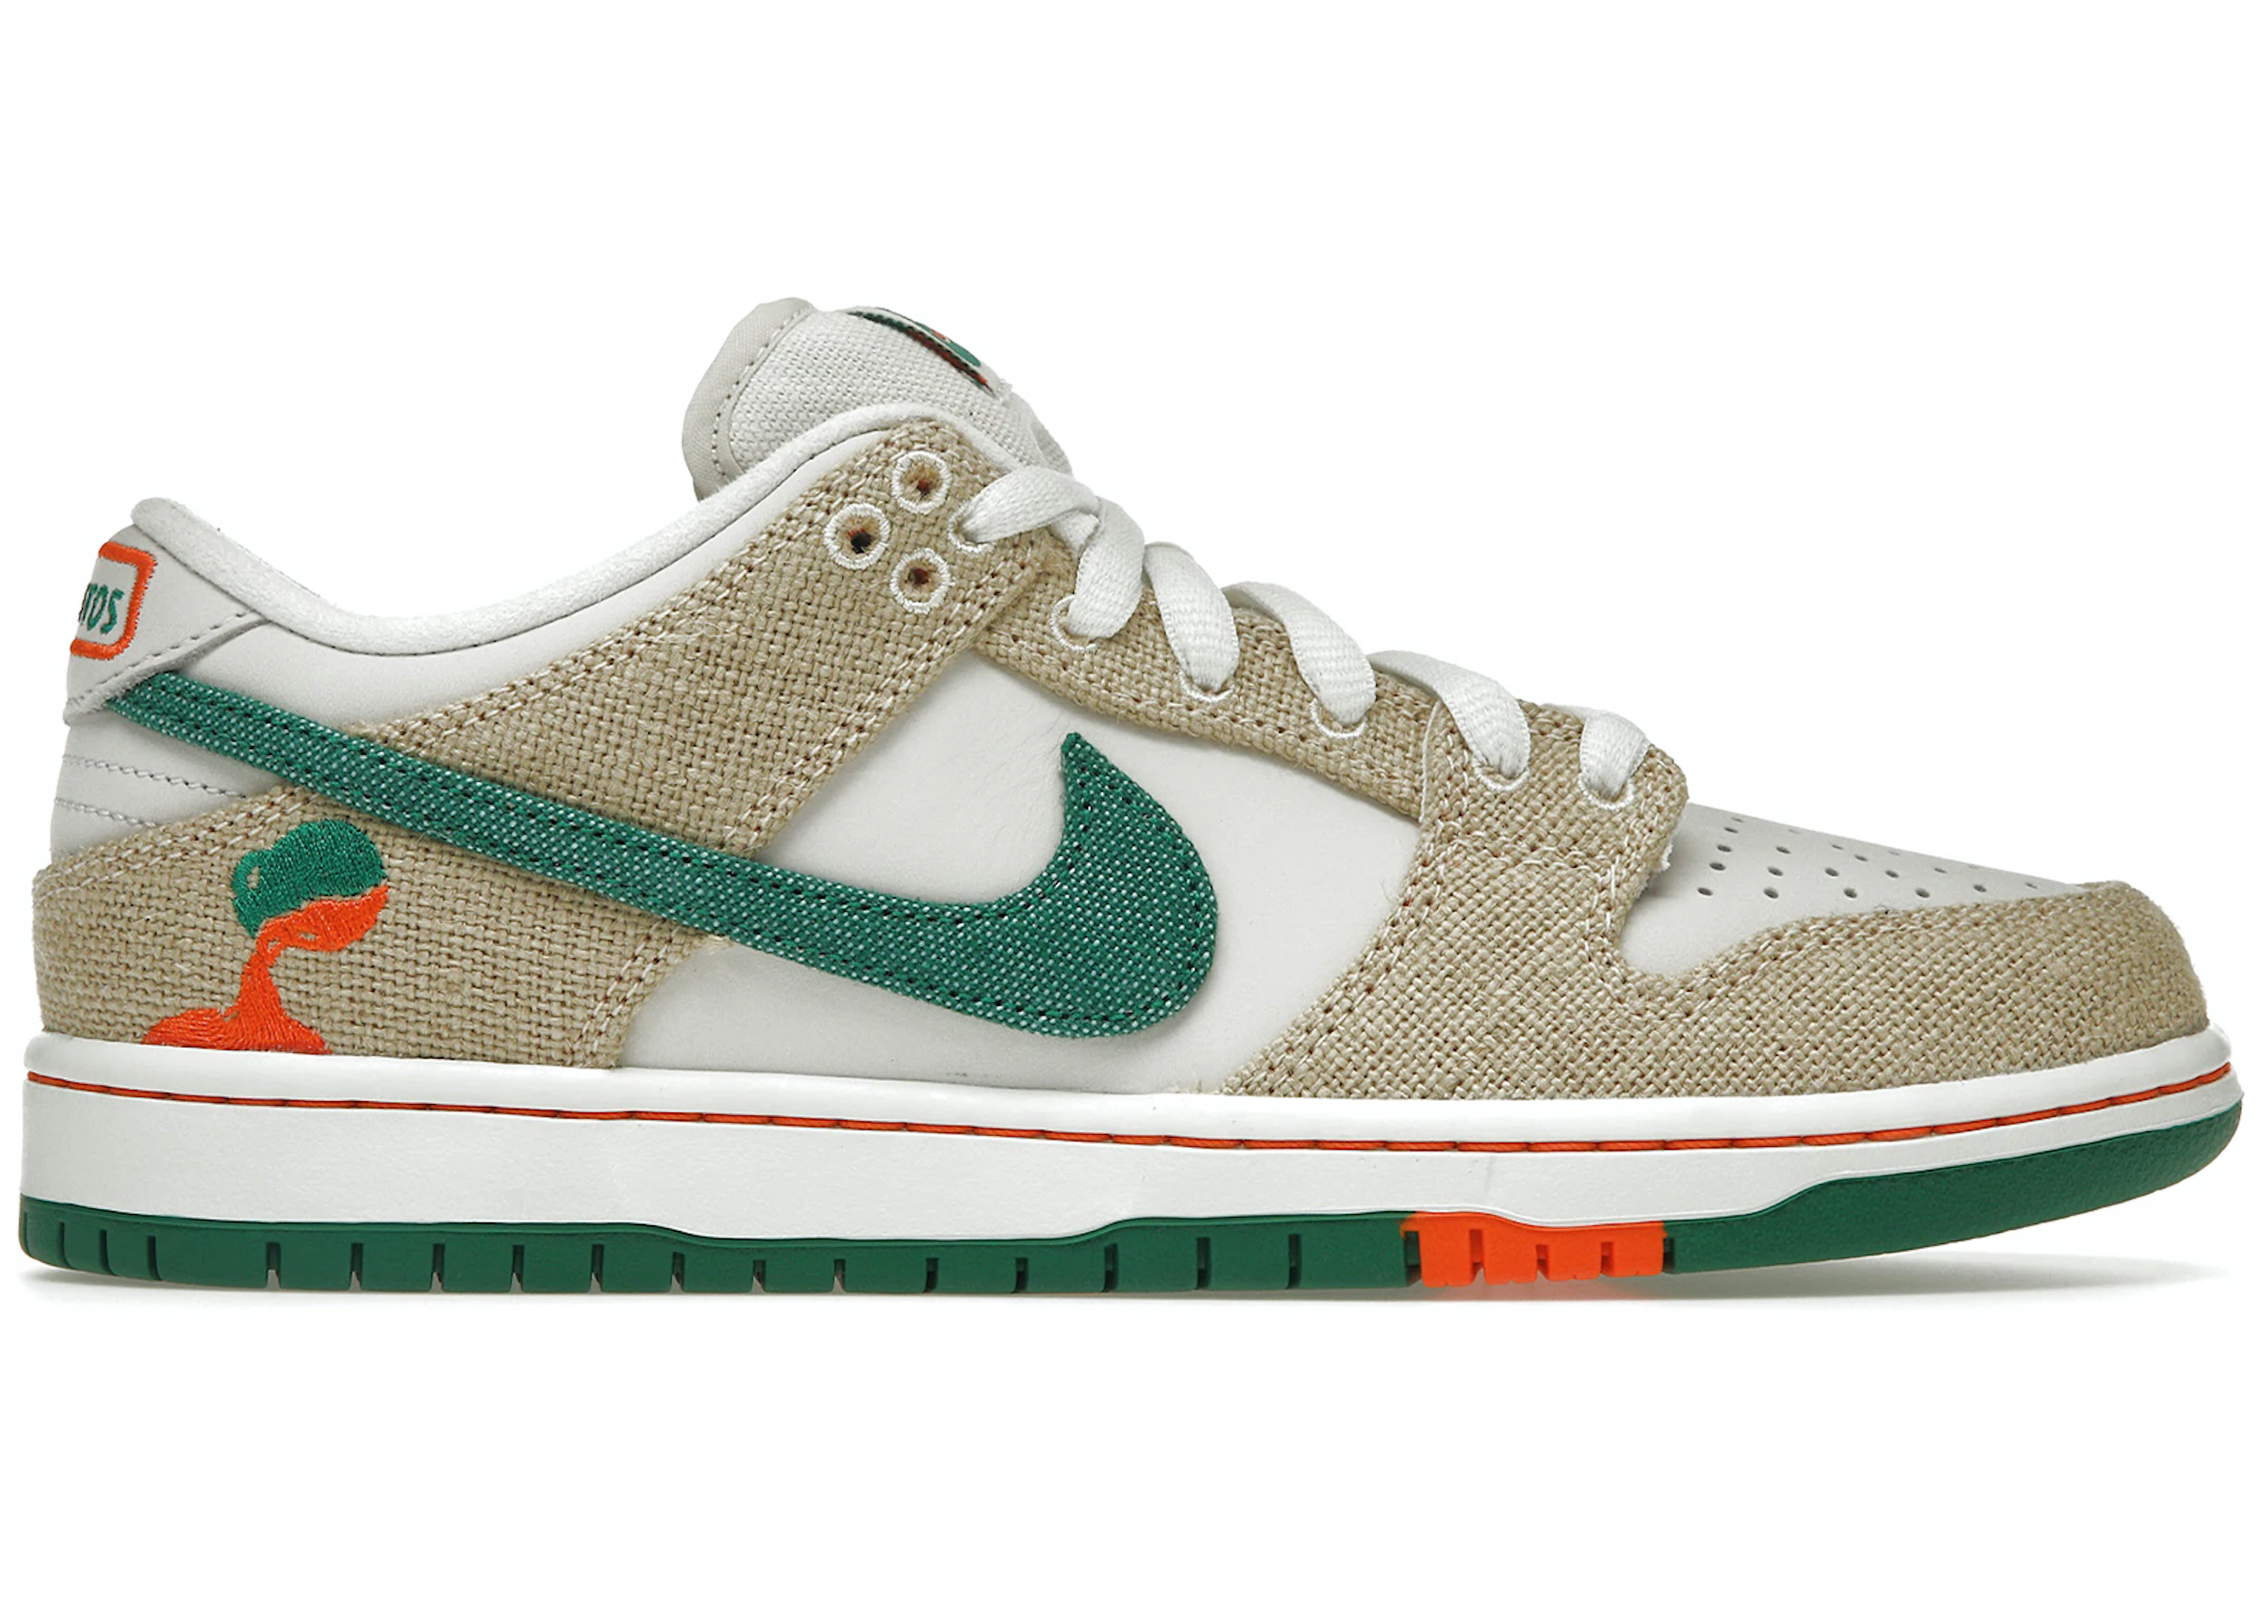
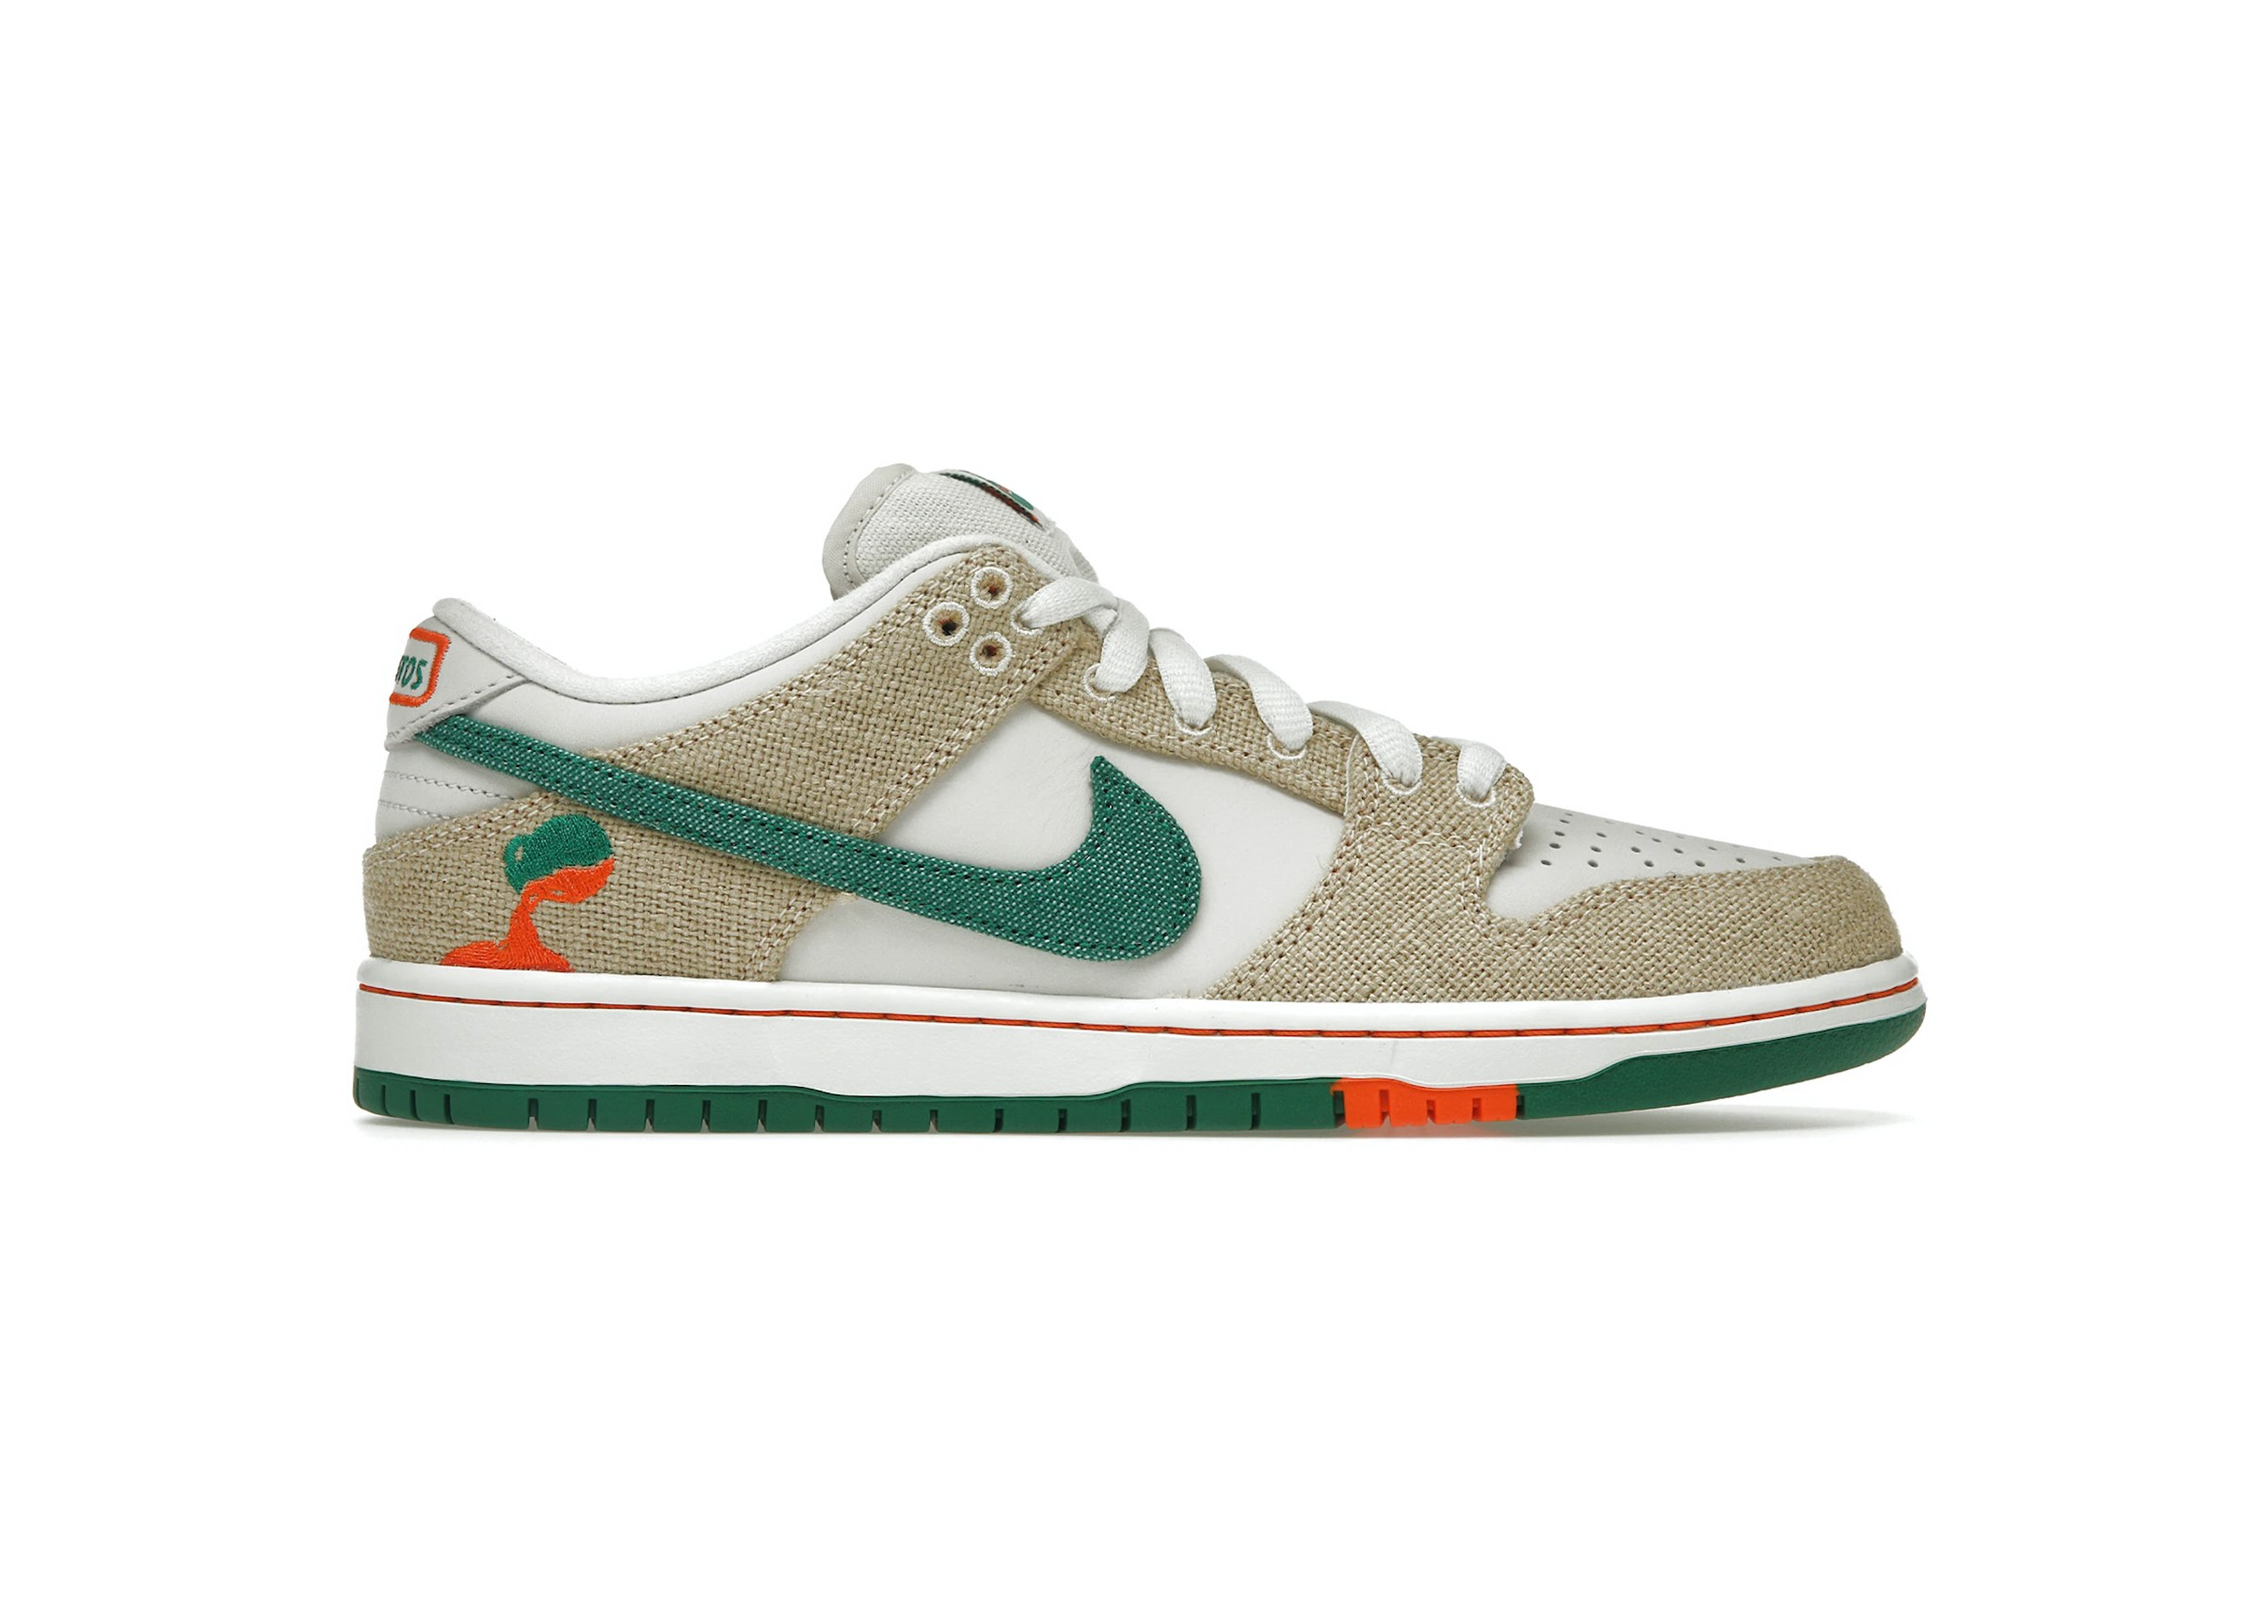
category page

diff --git a/src/components/Navbar.jsx b/src/components/Navbar.jsx
@@ -51,12 +51,15 @@ function Navbar() {
                             <button className='searchbar-btn'><CiSearch size={25} color='white' /></button>
                         </form>                   
                     </div>
+                    
                 ):null }
-                <div className='inline-sep icon-container'>
-                    <Link to={'/connexion'}><BiUser size={32} stroke-width='0.1' className='navbar-icons icon-user' style={styles.itemscolor} /></Link>
-                    <AiOutlineHeart size={32} stroke-width='0.1' className='navbar-icons icon-fav' style={styles.itemscolor} />
-                    <AiOutlineShoppingCart onClick={ShowCart} size={32} stroke-width='0.1' className='navbar-icons icon-cart' style={styles.itemscolor} />
-                </div>
+                { location.pathname !== '/register' && location.pathname !== '/login' && location.pathname !== '/connexion' ? (
+                    <div className='inline-sep icon-container'>
+                        <Link to={'/connexion'}><BiUser size={32} stroke-width='0.1' className='navbar-icons icon-user' style={styles.itemscolor} /></Link>
+                        <AiOutlineHeart size={32} stroke-width='0.1' className='navbar-icons icon-fav' style={styles.itemscolor} />
+                        <AiOutlineShoppingCart onClick={ShowCart} size={32} stroke-width='0.1' className='navbar-icons icon-cart' style={styles.itemscolor} />
+                    </div>
+                ):null }
             </div>
             { showCart === true ? (
                 <div className='cart-popup'>

diff --git a/src/pages/Category.jsx b/src/pages/Category.jsx
@@ -1,0 +1,31 @@
+/* eslint-disable capitalized-comments */
+/* eslint-disable no-unused-vars */
+/* eslint-disable indent */
+import {React} from 'react';
+import '../css/Homepage.scss';
+import Navbar from '../components/Navbar';
+import ProductCard from '../components/cards/ProductCard';
+import dunk from '../img/nike/dunk.jpg';
+import Nike from '../img/nike/air-max.jpg'
+import dunkJarritos from '../img/nike/dunk_jarritos.jpg'
+
+function Category() {
+    return (
+        <div>
+            <Navbar />
+            <div className='main-div'>
+                <h1 className='text1'>Sneakers</h1>
+                <h2 className='text2'>Top catégorie</h2>
+                <div className='card-grid-container'>
+                    <div className='inline flex-center'>
+                        <div className='card-grid-2x2'>
+                        <ProductCard item_name='Nike SB Dunk Low Jarritos' item_price='de 275€ à 432€' item_image={dunkJarritos} item_sizes='US6 - US13' />          
+                        </div>
+                    </div>
+                </div>
+            </div>
+        </div>
+    );
+}
+
+export default Category;

diff --git a/src/components/cards/ProductCard.jsx b/src/components/cards/ProductCard.jsx
@@ -6,14 +6,14 @@ const ProductCard = (props) => {
     console.log(item_sizes);
 
     return (
-        <div className='product-card'>
-            <div className='card-img'>
-                {item_image && <img src={item_image} alt='product-image' />}
+        <div className='card product-card'>
+            <div className='product-card-img'>
+                {item_image && <img src={item_image} alt='product-image' className='product-card-image' />}
             </div>
-            <div>
-                <p>{item_name}</p>
-                <p>tailles : {item_sizes}</p>
-                <p>{item_price}€</p>
+            <div className='product-card-txt'>
+                <p className='product-card-name'>{item_name}</p>
+                <p className='product-card-sizes'>tailles : {item_sizes}</p>
+                <p className='item-price'>{item_price}</p>
             </div>         
         </div>
     )

diff --git a/src/App.jsx b/src/App.jsx
@@ -6,6 +6,7 @@ import LoginRegister from './pages/LoginRegister.jsx';
 import Login from './pages/subpages/Login.jsx';
 import Register from './pages/subpages/Register.jsx';
 import ProductPage from './pages/ProductPage.jsx';
+import Category from './pages/Category.jsx';
 
 function App() {
   return (
@@ -16,6 +17,7 @@ function App() {
           <Route path='/login' element={<Login />}/>
           <Route path='/register' element={<Register />}/>
           <Route path='/product' element={<ProductPage />}/>
+          <Route path='/category' element={<Category />}/>
         </Routes>
       </Router>
   );

diff --git a/src/css/Card.scss b/src/css/Card.scss
@@ -6,9 +6,14 @@
 }
 
 .product-card {
-    height: 20vh;
-    width: 20%;
-    text-align: center;
+    font-family: Arial, Helvetica, sans-serif;
+    height: 35vh;
+    width: 20vw;
+}
+
+.product-card-img {
+    height: 24vh;
+    width: 100%;
 }
 
 .category-card {
@@ -69,4 +74,19 @@
 .card-see-all-img {
     width: 100%;
     height: 517px;
+}
+
+.product-card-image {
+    height: 100%;
+    width: 100%;
+}
+
+.product-card-sizes {
+    font-weight: 300;
+    color: grey;
+    font-size: 15px;
+}
+
+.product-card-txt {
+    margin: 25px;
 }

diff --git a/src/css/Navbar.scss b/src/css/Navbar.scss
@@ -94,6 +94,7 @@
     border-radius: 30px;
     border: solid #1f96d1;
     position: absolute;
+    z-index: 100;
     margin: 50px auto 0 auto;
     right: 2vw;
 }
